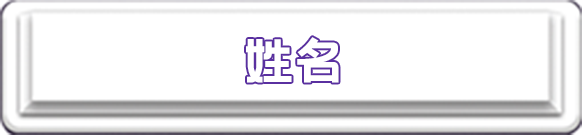
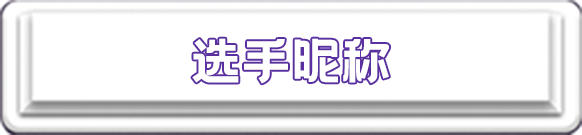
no message

Changed region(s): [[0.3093, 0.2667, 0.6804, 0.6519]]

diff --git a/src/views/ApplyView.vue b/src/views/ApplyView.vue
@@ -5,12 +5,12 @@
           <div class="ap_logo"><img src="../assets/img/cover_logo.png"/></div>
           <div class="ap_box">
             <ul>
-              <li><input class="input_name magictime boingInUp" type="text" placeholder=" " v-model.trim="formData.name" maxlength="20" /></li>
-              <li><input class="input_mobile magictime boingInUp" type="tel" placeholder=" " v-model.trim="formData.mobile"  maxlength="11" style="animation-delay: 0.05s;" /></li>
+              <li><input class="input_name magictime boingInUp" type="text" placeholder=" " v-model.trim="formData.name" maxlength="15" /></li>
+              <!-- <li><input class="input_mobile magictime boingInUp" type="tel" placeholder=" " v-model.trim="formData.mobile"  maxlength="11" style="animation-delay: 0.05s;" /></li> -->
               <li><input class="input_number magictime boingInUp" type="text" placeholder=" " v-model.trim="formData.number" maxlength="8" style="animation-delay: 0.1s;" /></li>
-              <li><input class="input_city magictime boingInUp" type="text" placeholder=" " v-model.trim="formData.city" maxlength="4" style="animation-delay: 0.15s;" /></li>
+              <!-- <li><input class="input_city magictime boingInUp" type="text" placeholder=" " v-model.trim="formData.city" maxlength="4" style="animation-delay: 0.14s;" /></li> -->
               <li>
-                <div class="btn_channel magictime boingInUp" style="animation-delay: 0.2s;" @click="selectChannel">
+                <div class="btn_channel magictime boingInUp" style="animation-delay: 0.15s;" @click="selectChannel">
                   <img :src="channel_sel_img"/>
                 </div>
               </li>
@@ -49,7 +49,10 @@
 
           </div>
           <div class="upload_tips"><img src="../assets/img/upload_tips.png"/></div>
-          <div class="upload_create magictimeDelay tinDownIn" @click="complexImage"><img src="../assets/img/apply_upload_create.png"/></div>
+          <div class="upload_create magictimeDelay tinDownIn">
+            <img class="btn_back" @click="goBackToApply" src="../assets/img/complex_back.png"/>
+            <img src="../assets/img/apply_upload_create.png" @click="complexImage" />
+          </div>
         </div>
 
         <div class="apply_complex" v-if="step==2">
@@ -75,7 +78,7 @@
             <img :src="complex_data" />
           </div>
           <div class="complex_action magictimeFast vanishIn" v-if="complex_done">
-            <img class="btn_back" @click="goBack" src="../assets/img/complex_back.png"/>
+            <img class="btn_back" @click="goBackToUpload" src="../assets/img/complex_back.png"/>
             <img class="btn_share" @click="shareImg" src="../assets/img/apply_list_share.png"/>
           </div>
         </div>
@@ -172,28 +175,26 @@ export default {
   methods: {
     postApply () {
       if (!this.formData.name) {
-        this.$message.error('请填写姓名')
-        return false
-      }
-      if (!this.formData.mobile) {
-        this.$message.error('请填写手机号')
-        return false
-      } else if (this.formData.mobile.length !== 11) {
-        this.$message.error('请填写正确的手机号')
+        this.$message.error('请填写选手昵称')
         return false
       }
       if (!this.formData.number) {
-        this.$message.error('请填写工号')
+        this.$message.error('请填写员工工号')
         return false
       } else if (this.formData.number.length !== 8 && !(this.formData.number.substr(0, 1) === 4 || this.formData.number.substr(0, 1) === 5)) {
-        this.$message.error('请填写正确的工号')
+        this.$message.error('请填写正确的员工工号')
         return false
       }
-      if (!this.formData.city) {
-        this.$message.error('请填写店铺号')
-        return false
-      } else if (this.formData.city <= 101 || this.formData.city >= 9900) {
-        this.$message.error('请填写正确的店铺号')
+      // if (!this.formData.city) {
+      //   this.$message.error('请填写店铺号')
+      //   return false
+      // } else if ((this.formData.city <= 101 && parseInt(this.formData.city) !== 0) || this.formData.city >= 9900 || (parseInt(this.formData.city) === 0 && this.formData.city.length === 4)) {
+      //   this.$message.error('请填写正确的店铺号')
+      //   return false
+      // }
+
+      if (this.channel === 0) {
+        this.$message.error('请选择赛道')
         return false
       }
 
@@ -248,15 +249,14 @@ export default {
     beforeAvatarUpload (file) {
       const types = ['image/jpg', 'image/png', 'image/jpeg']
       const isJPG = types.includes(file.type)
-      const isLt2M = file.size / 1024 / 1024 <= 2
-
+      const isLt2M = file.size / 1024 / 1024 <= 3.1
 
       if (!isJPG) {
         this.$message.error('上传图片只支持jpg/png格式!')
         return false
       }
       if (!isLt2M) {
-        this.$message.error('上传图片大小不能超过 2MB!')
+        this.$message.error('上传图片大小不能超过 3MB!')
         return false
       }
 
@@ -414,8 +414,13 @@ export default {
         this.showMask = false
       }
     },
-    goBack () {
+    goBackToUpload () {
       this.step = 1
+      this.complex_done = false
+      this.complex_data = null
+    },
+    goBackToApply () {
+      this.step = 0
       this.complex_done = false
       this.complex_data = null
     },
@@ -453,7 +458,7 @@ export default {
 
 .ap_box{
   width: 100vw;
-  height: 120vw;
+  height: 118vw;
   background-image: url('../assets/img/guide_box.png');
   background-position: center center;
   background-repeat: no-repeat;
@@ -462,9 +467,9 @@ export default {
   margin: 10vw auto 2vw auto;
 
   ul{
-    padding-top: 25vw;
+    padding-top: 30vw;
     li{
-      padding: 1.6vw 0;
+      padding: 4vw 0;
     }
     input,button{
       width: 54vw;
@@ -631,10 +636,12 @@ export default {
 .upload_create{
   margin: 8vw auto 0 auto;
   opacity: 0;
-  width: 38%;
+  width: 100%;
   opacity: 0;
   img{
-    width: 100%;
+    display: inline-block;
+    width: 35%;
+    margin: 0 5vw;
   }
 }
 .avatar-uploader .el-upload {

diff --git a/src/views/GuideView.vue b/src/views/GuideView.vue
@@ -4,8 +4,8 @@
        <div class="ap_box">
         <ul>
           <li><button class="button_1 magictime boingInUp" @click="gotoApplyView" /></li>
-          <li><button class="button_2 magictime boingInUp" style="animation-delay: 0.2s;" @click="gotoVoteView" /></li>
-          <li><button class="button_3 magictime boingInUp" style="animation-delay: 0.4s;" @click="gotoUploadView" /></li>
+          <!-- <li><button class="button_2 magictime boingInUp" style="animation-delay: 0.2s;" @click="gotoVoteView" /></li>
+          <li><button class="button_3 magictime boingInUp" style="animation-delay: 0.4s;" @click="gotoUploadView" /></li> -->
         </ul>
        </div>
     </div>
@@ -60,8 +60,8 @@ export default {
 }
 
 .ap_box{
-  width: 88vw;
-  height: 114vw;
+  width: 86vw;
+  height: 112vw;
   background-image: url('../assets/img/guide_box.png');
   background-position: center center;
   background-repeat: no-repeat;
@@ -70,7 +70,7 @@ export default {
   margin: 6vh auto;
 
   ul{
-    padding-top: 28vw;
+    padding-top: 35vw;
     li{
       padding: 2.6vw 0;
     }
